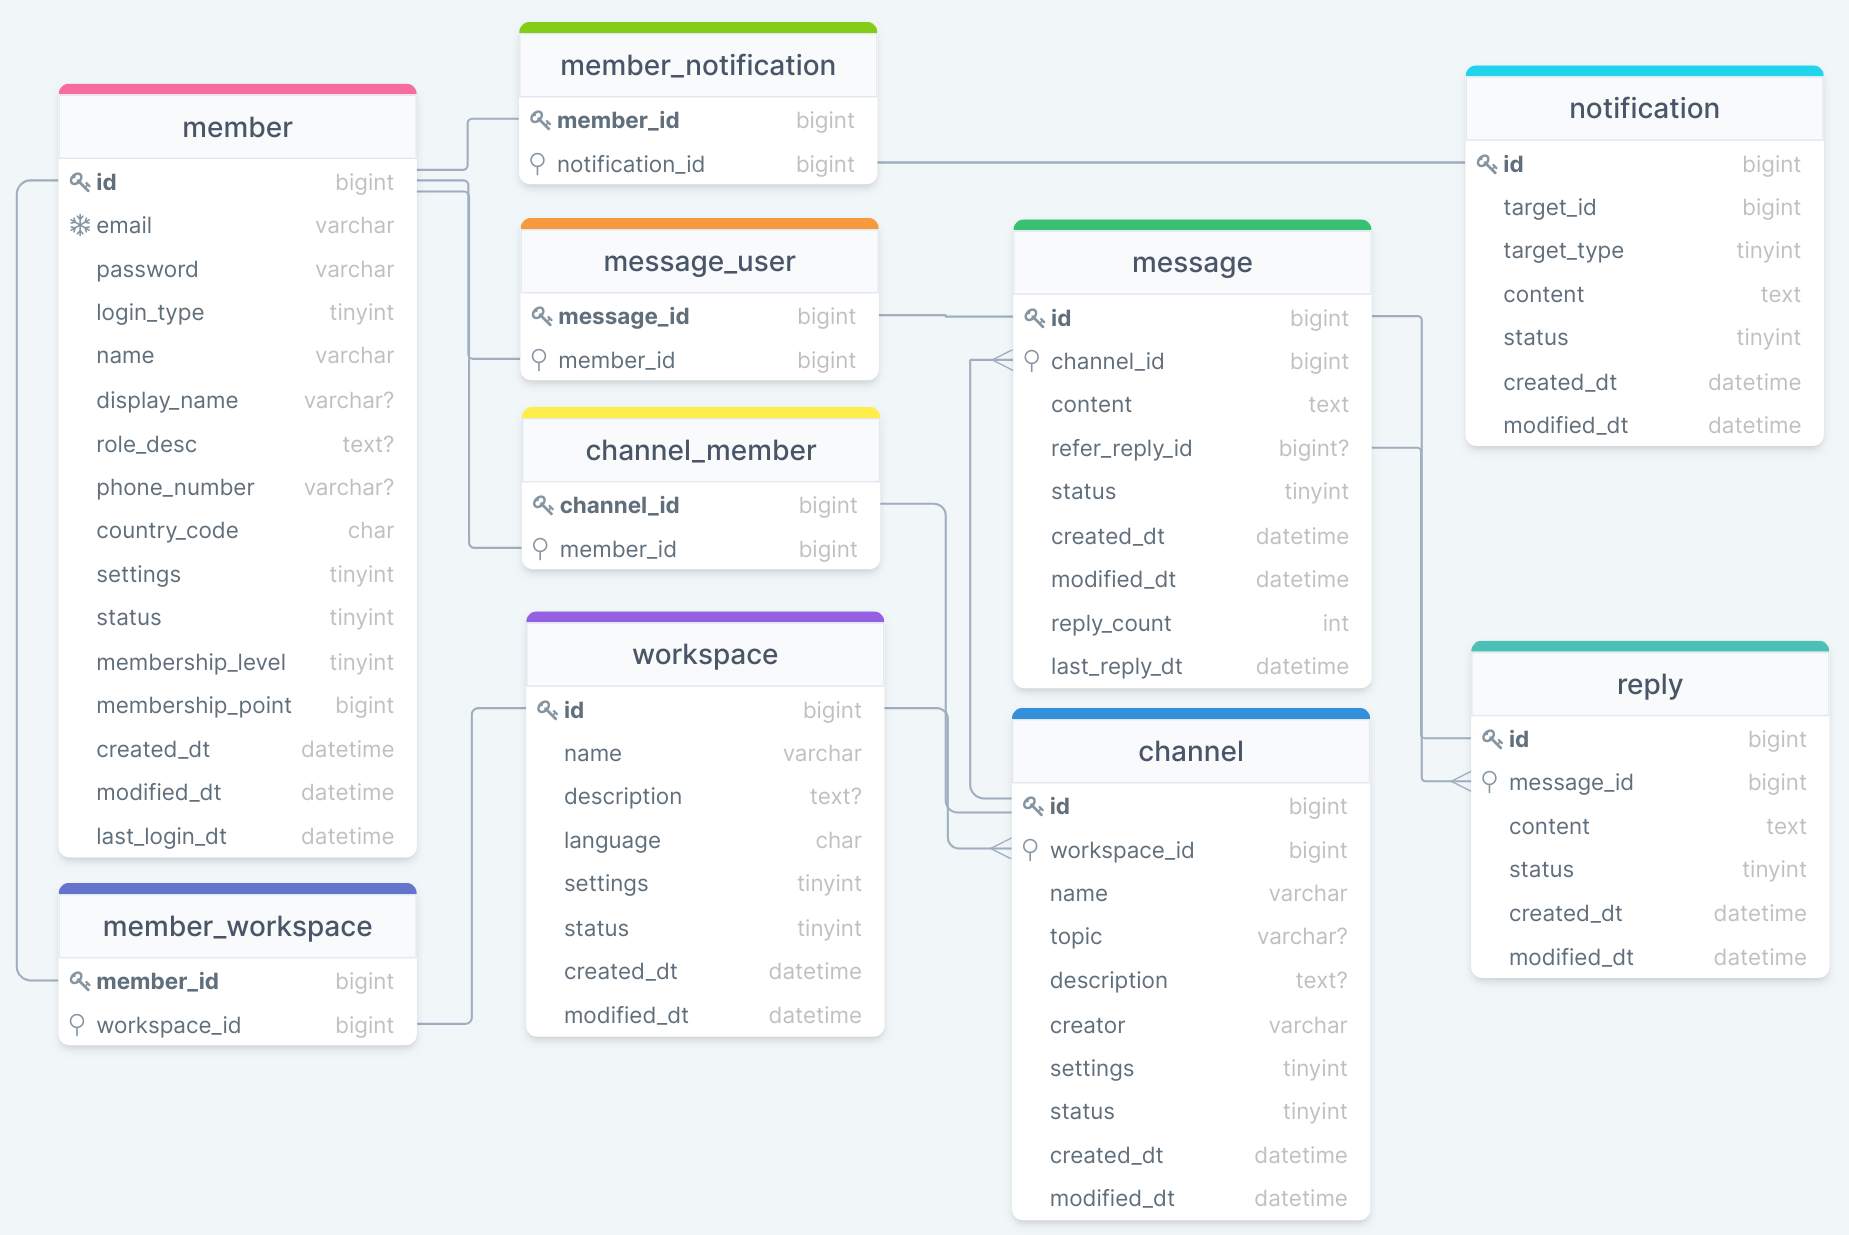
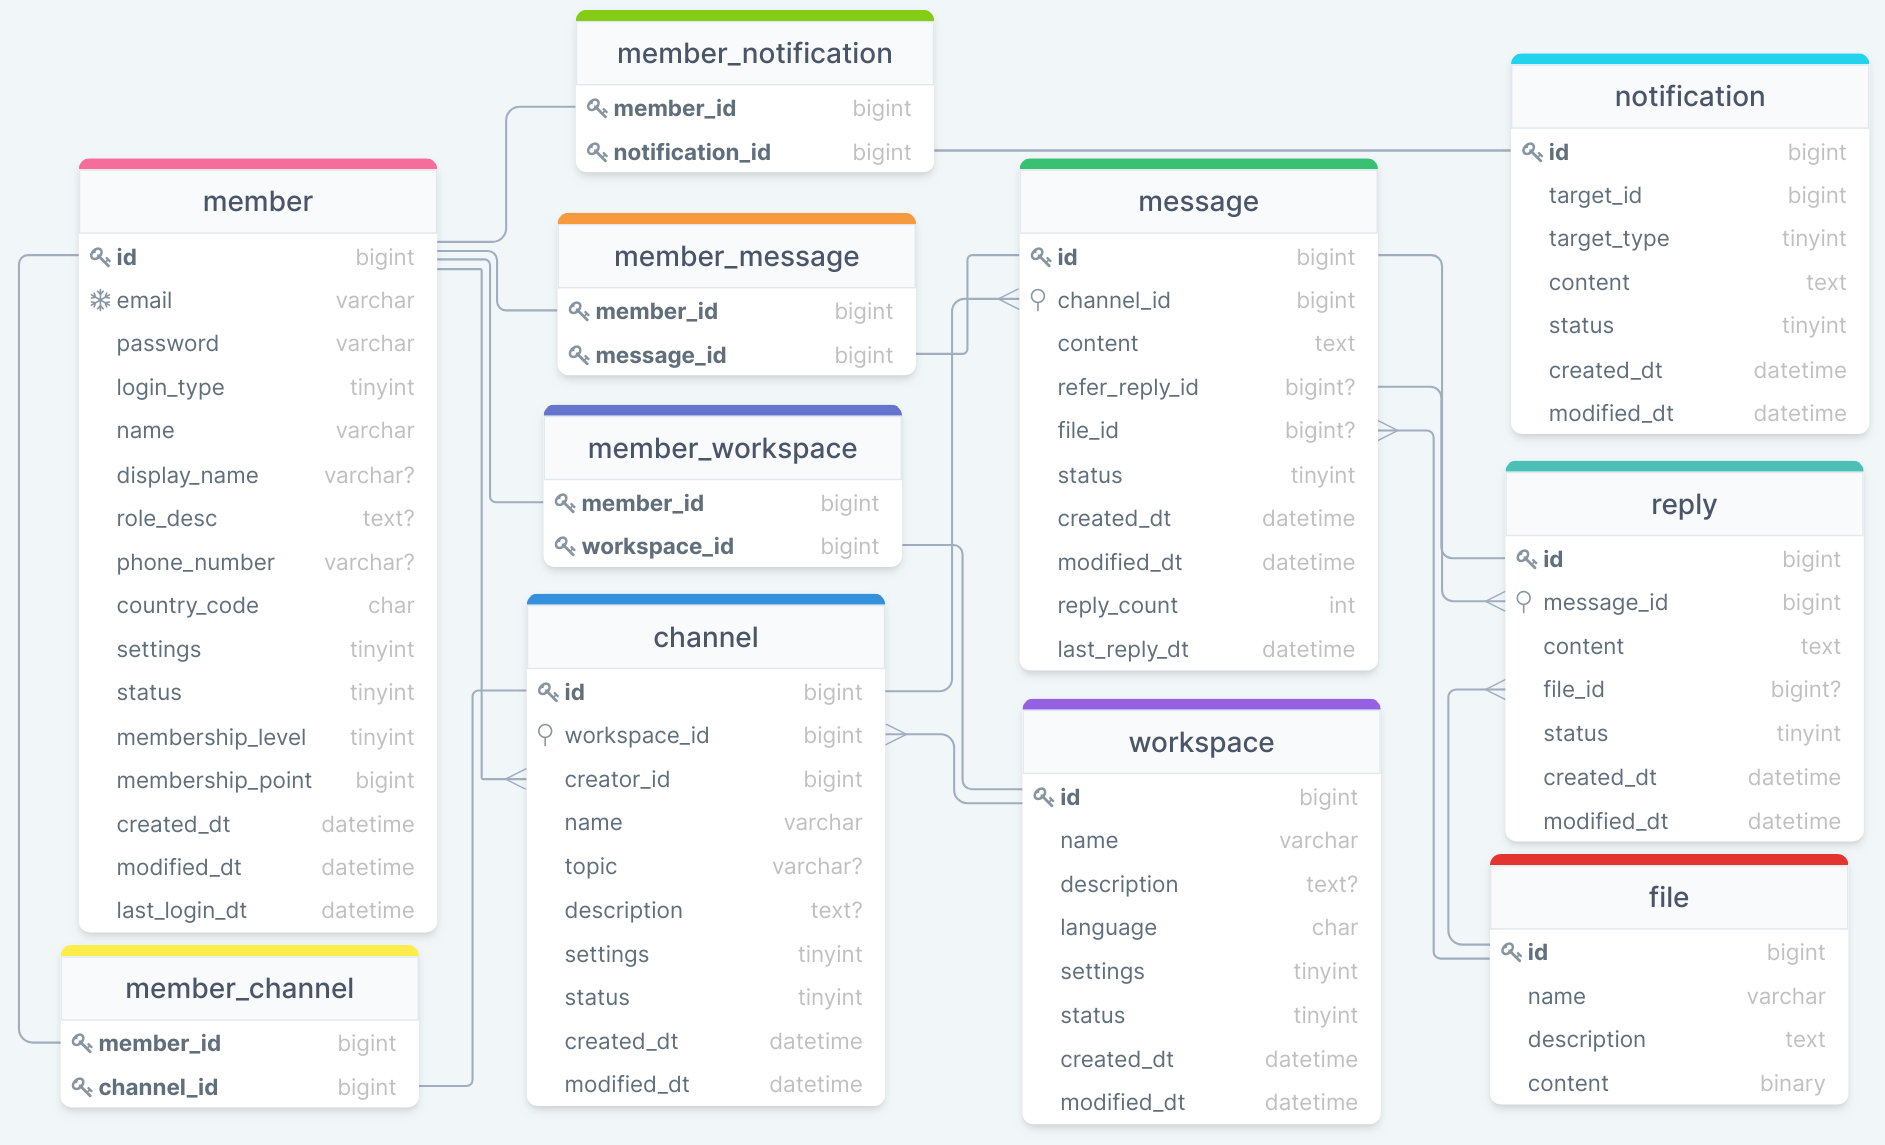
Chore: MySQL 스키마 스크립트 및 이미지 수정 (#31)

diff --git a/docs/README.md b/docs/README.md
@@ -2,3 +2,6 @@
 
 ## ChangeLog
 - 21.12.19 DB 스키마 이미지 파일 추가
+- 22.01.03 DB 스키마 이미지 수정
+  - `file` 테이블 추가 및 `message`, `reply` 테이블에 관련 필드 추가
+  - Join table들의 이름을 member가 앞으로 오도록 고치고 PK 변경

diff --git a/scripts/README.md b/scripts/README.md
@@ -5,3 +5,6 @@
 
 ## ChangeLog
 - 21.12.19 SQL 스크립트 추가
+- 22.01.03 SQL 스크립트 수정
+  - `file` 테이블 추가 및 `message`, `reply` 테이블에 관련 필드 추가
+  - Join table들의 이름을 member가 앞으로 오도록 고치고 PK 변경
